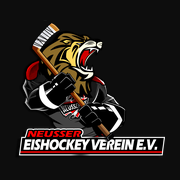
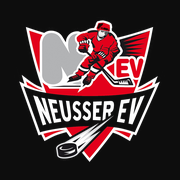
NEV-Wappen, Farben wie im Google Sheet, Hinweistexte statt Extern
- Kopf: perspektivisches NEV-Wappen; App-Icons aus dem Wappen in 1024 px
- Farben aus dem Sheet: Heimspiel gruen, Auswaerts blau, externe Eiszeit orange,
  Stadt-Plan NSK blau, oeffentlich gelb, Schule gruen, Kindergarten orange
- Unbekannter Text in der Zelle (z. B. Fotoshooting) gilt als Eiszeit in Neuss,
  extern nur bei Halle/Ort/@

Claude-Session: https://claude.ai/code/session_012EnHbsXeK9PVf2BYzTPPiz

diff --git a/style.css b/style.css
@@ -34,7 +34,7 @@ button { font: inherit; color: inherit; }
   background: linear-gradient(135deg, #0a0a0a 0%, #1a1a1a 55%, var(--red-dark) 130%);
   border-bottom: 3px solid var(--red);
 }
-.logo { width: 52px; height: auto; flex: none; filter: drop-shadow(0 2px 6px rgba(0,0,0,.6)); }
+.logo { width: 60px; height: auto; flex: none; filter: drop-shadow(0 2px 6px rgba(0,0,0,.6)); }
 .brand { flex: 1; min-width: 0; }
 .title { font-weight: 900; font-size: 1.45rem; letter-spacing: .02em; text-transform: uppercase; font-style: italic; }
 .title span { color: var(--red); }
@@ -96,7 +96,13 @@ main { max-width: 640px; margin: 0 auto; padding: 0 16px; }
 .filter { margin: 0 0 8px; font-size: .88rem; color: var(--muted); display: flex; flex-direction: column; gap: 6px; }
 
 /* ---------- Fremdbelegung (Belegungsplan Stadt) ---------- */
-:root { --nsk: #4aa3df; --public: #2fbf71; --school: #b48cff; }
+/* Farben wie im Google Sheet: Trainingsplan (Heim/Auswärts/extern) und Belegungsplan Stadt */
+:root {
+  --home: #d9ead3; --away: #cfe2f3; --extice: #fce5cd; --office: #c9c9c9;
+  --nsk: #9fc5e8; --public: #ffff00; --school: #b7e1cd; --kita: #f9cb9c;
+}
+.slot.city-kita { border-left-color: var(--kita); }
+.now-team.city-kita { color: var(--kita); }
 .slot.city { border-left-color: #666; background: #141414; border-style: dashed; border-left-style: solid; }
 .slot.city .who { font-weight: 700; color: #e6e6e6; }
 .slot.city-nsk { border-left-color: var(--nsk); }
@@ -119,9 +125,10 @@ main { max-width: 640px; margin: 0 auto; padding: 0 16px; }
   background: var(--surface); border: 1px solid var(--line); border-left: 4px solid #444;
 }
 .slot.ice { border-left-color: var(--red); }
-.slot.office { border-left-color: var(--gold); }
-.slot.game { border-left-color: #fff; }
-.slot.ext { border-left-color: #555; }
+.slot.office { border-left-color: var(--office); }
+.slot.ext { border-left-color: var(--extice); }
+.slot.k-home { border-left-color: var(--home); }
+.slot.k-away { border-left-color: var(--away); }
 .slot.past { opacity: .42; }
 .slot.live { background: #2a1013; border-color: var(--red); box-shadow: 0 0 0 1px var(--red) inset; }
 .t { font-variant-numeric: tabular-nums; font-weight: 800; font-size: .95rem; line-height: 1.2; }
@@ -134,10 +141,10 @@ main { max-width: 640px; margin: 0 auto; padding: 0 16px; }
   letter-spacing: .04em; text-transform: uppercase; background: #333; color: #fff;
 }
 .badge.ice { background: var(--red); }
-.badge.office { background: var(--gold); color: #111; }
-.badge.home { background: #fff; color: #111; }
-.badge.away { background: #444; }
-.badge.ext { background: #3a3a3a; color: #ddd; }
+.badge.office { background: var(--office); color: #111; }
+.badge.home { background: var(--home); color: #111; }
+.badge.away { background: var(--away); color: #111; }
+.badge.ext { background: var(--extice); color: #111; }
 .badge.live { background: var(--ok); color: #062; }
 .empty { padding: 26px 12px; text-align: center; color: var(--muted); background: var(--surface); border-radius: 12px; border: 1px dashed var(--line); }
 .err { padding: 12px 14px; border-radius: 12px; background: #3a0d12; border: 1px solid var(--red-dark); color: #ffd7dc; margin-top: 12px; font-size: .9rem; }

diff --git a/app.js b/app.js
@@ -89,8 +89,10 @@ function classifyPlace(place) {
     return { type: 'office', label: rooms ? `Off-Ice ${rooms.split('').join('+')}` : 'Off-Ice' };
   }
   if (/\bK\d/i.test(place)) return { type: 'ice', label: place.replace(/\s+/g, ' ') };
-  if (place) return { type: 'ext', label: place };
-  return { type: 'ice', label: '' };   // ohne Ortsangabe -> Eis (Halle Neuss)
+  // Extern nur, wenn es nach einem anderen Ort aussieht ("Eissporthalle Moers", "@ Ratingen").
+  // Sonstiger Text ("Fotoshooting") ist ein Hinweis zu einer Eiszeit in Neuss.
+  if (/@|halle|eisbahn|arena|stadion/i.test(place)) return { type: 'ext', label: place.replace(/^@\s*/, '') };
+  return { type: 'ice', label: place };   // ohne Ortsangabe -> Eis (Halle Neuss)
 }
 
 function parseCell(raw) {
@@ -230,7 +232,8 @@ function cityKind(label) {
   if (/\bNEV\b/i.test(label)) return 'nev';
   if (/\bNSK\b/i.test(label)) return 'nsk';
   if (/öffent/i.test(label)) return 'public';
-  if (/schul|kinder/i.test(label)) return 'school';
+  if (/kinder/i.test(label)) return 'kita';
+  if (/schul/i.test(label)) return 'school';
   return 'other';
 }
 
@@ -493,7 +496,7 @@ function renderDay() {
   ul.innerHTML = slots.map(s => {
     const live = isToday && s.start != null && s.start <= now && now < s.end;
     const past = (state.dayOffset < 0) || (isToday && s.end != null && s.end <= now);
-    const cls = ['slot', s.type, live ? 'live' : '', past && !live ? 'past' : ''].join(' ');
+    const cls = ['slot', s.type, `k-${s.kind}`, live ? 'live' : '', past && !live ? 'past' : ''].join(' ');
     if (s.kind === 'city') {
       return `<li class="${cls} city-${s.cityKind}">${timeHtml(s)}<div>
         <div class="who">${esc(s.label)}${live ? ' <span class="badge live">jetzt</span>' : ''}</div>

diff --git a/index.html b/index.html
@@ -12,7 +12,7 @@
   <meta name="apple-mobile-web-app-capable" content="yes">
   <meta name="apple-mobile-web-app-status-bar-style" content="black-translucent">
   <meta name="apple-mobile-web-app-title" content="NEV Daily">
-  <link rel="stylesheet" href="style.css?v=2026-11-02b">
+  <link rel="stylesheet" href="style.css?v=2026-11-02c">
 </head>
 <body>
   <div class="sticky">
@@ -74,10 +74,10 @@
 
   <footer class="foot">
     <div id="status">–</div>
-    <div class="version">Version 2026-11-02b</div>
+    <div class="version">Version 2026-11-02c</div>
     <div class="legend">K = Kabine · Off-Ice A = Raum 1 · Off-Ice B = Raum 2 (Spiegel)</div>
   </footer>
 
-  <script src="app.js?v=2026-11-02b"></script>
+  <script src="app.js?v=2026-11-02c"></script>
 </body>
 </html>
